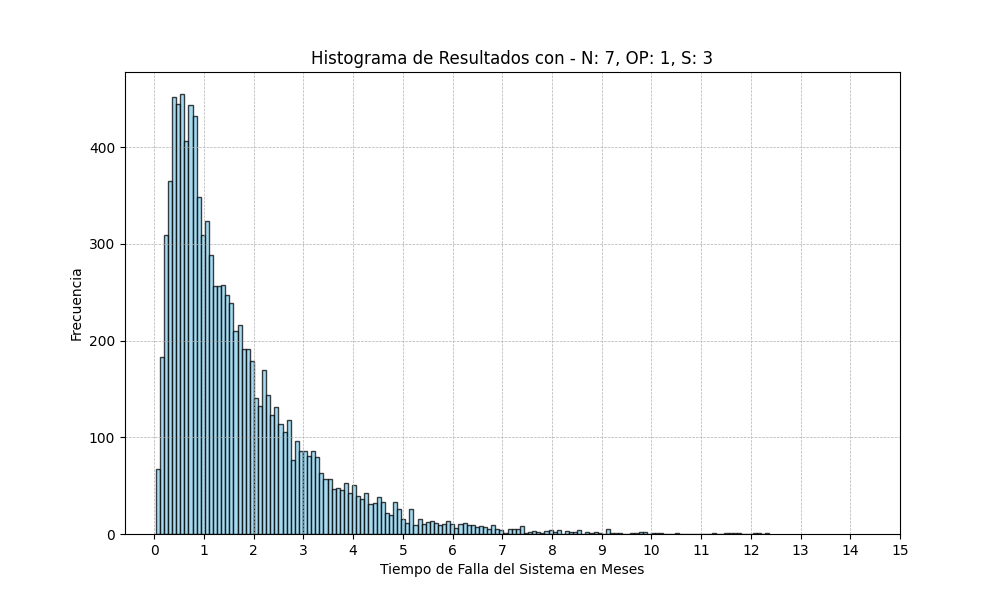
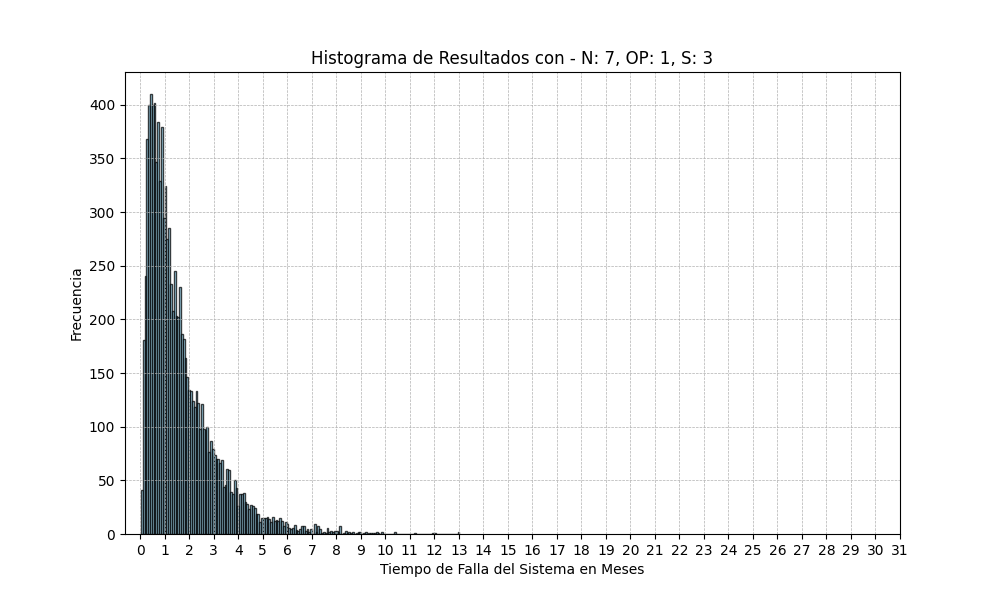
Change graphics

diff --git a/Hubmann-PereyraCarrillo.py b/Hubmann-PereyraCarrillo.py
@@ -73,45 +73,53 @@ def statics(N,S,OP):
 
 casos_de_estudio = [[7,3,1], [7,3,2], [7,4,1]]
 results = []    # used for making the graph of the esperanza and desviación estandar
-xticks_values = [(16,1),(36,2),(24,1)]
+another_results = []    # used for making the histogram of the results
 i = 0
 for value in casos_de_estudio:
     esperanza, desviacion_estandar, sim_result = statics(*value)
     # This will graph the results of each simualtion
     plt.figure(figsize=(10, 6))
-    plt.hist(sim_result, bins=150, alpha=0.75, color='skyblue', edgecolor='black')
+    plt.hist(sim_result, bins=175, alpha=0.75, color='skyblue', edgecolor='black')
     plt.title(f'Histograma de Resultados con - N: {value[0]}, OP: {value[2]}, S: {value[1]}')
     plt.xlabel('Tiempo de Falla del Sistema en Meses')
     plt.ylabel('Frecuencia')
     plt.grid(True, which='both', linestyle='--', linewidth=0.5)
-    plt.xticks(range(0, xticks_values[i][0], xticks_values[i][1]))
+    plt.xticks(range(0, 32, 1))
     plt.show()
     i +=1
 
     # This will graph the esperanza and desviación estandar
     results.append({'N': value[0], 'S': value[1], 'OP': value[2], 'Media': esperanza, 'Desviación Estándar': desviacion_estandar})
+    another_results.append(sim_result)
 
+# Generate some sample data
+data = another_results
 
-df = pd.DataFrame(results)
-df['Label'] = df.apply(lambda row: f'OP: {row["OP"]}, S: {row["S"]}', axis=1)
+# Create a box plot
+plt.figure(figsize=(10, 6))
+plt.boxplot(data, patch_artist=True, vert=False,
+            boxprops=dict(facecolor='lightblue', color='black'),  # color of box and outline
+            whiskerprops=dict(color='black', linewidth=2),  # color and thickness of whiskers
+            capprops=dict(color='black', linewidth=2),  # color and thickness of caps
+            medianprops=dict(color='black', linewidth=2),  # color and thickness of median line
+            flierprops=dict(marker='o', markersize=6, markerfacecolor='red'))  # style of outliers)
 
-# Plotting
-fig, ax = plt.subplots(2, 1, figsize=(12, 10))
+# Customizing the plot
+plt.title('Comparación de los tiempos de falla del sistema en cada simulación')
+plt.xlabel('Tiempo de Falla del Sistema en Meses')
+plt.xticks(range(0, 36, 1))
+plt.ylabel('Casos de estudio: Operarios (OP) y Repuestos (S)')
+plt.yticks([1, 2, 3], ['OP: 1, S: 3', 'OP: 2, S: 3', 'OP: 1, S: 4'])
 
+# Add mean points and standard deviation lines
+for i in range(len(results)):
+    # Mean point
+    media_muestral = results[i]['Media']
+    desviacion_estandar = results[i]['Desviación Estándar']
 
-# Media plot
-df.plot(kind='bar', x='Label', y='Media', ax=ax[0], legend=False, color='skyblue')
-ax[0].set_title('Media de cada simulación')
-ax[0].set_ylabel('Tiempo de Falla del Sistema en Meses')
-ax[0].set_xlabel('Casos de estudio: Operarios (OP) y Repuestos (S)')
-ax[0].tick_params(axis='x', rotation=0)
+    # Standard deviation lines
+    plt.plot([media_muestral- desviacion_estandar , media_muestral + desviacion_estandar], [i + 1, i + 1], 'g-', linewidth=3)  # green line
+    plt.plot(media_muestral, i + 1,'b*', color = "purple", markersize=10)  # red star
 
-# Desviación Estándar plot
-df.plot(kind='bar', x='Label', y='Desviación Estándar', ax=ax[1], legend=False, color='orange')
-ax[1].set_title('Desviación Estándar de cada simulación')
-ax[1].set_ylabel('Tiempo de Falla del Sistema en Meses')
-ax[1].set_xlabel('Casos de estudio: Operarios (OP) y Repuestos (S)')
-ax[1].tick_params(axis='x', rotation=0)
-
-plt.tight_layout()
+# Display the plot
 plt.show()
